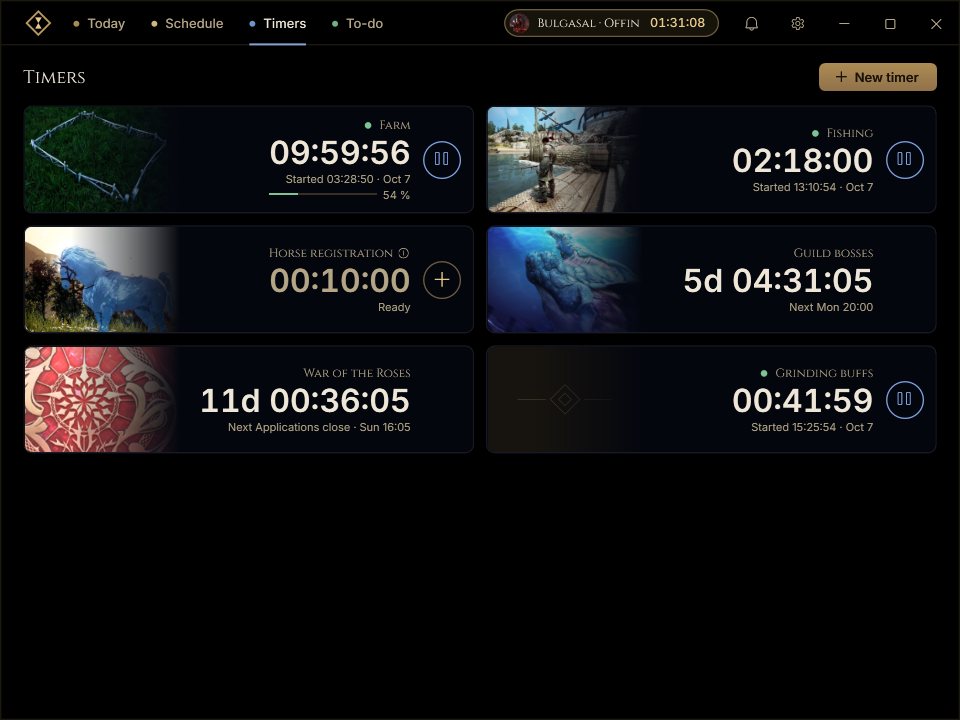
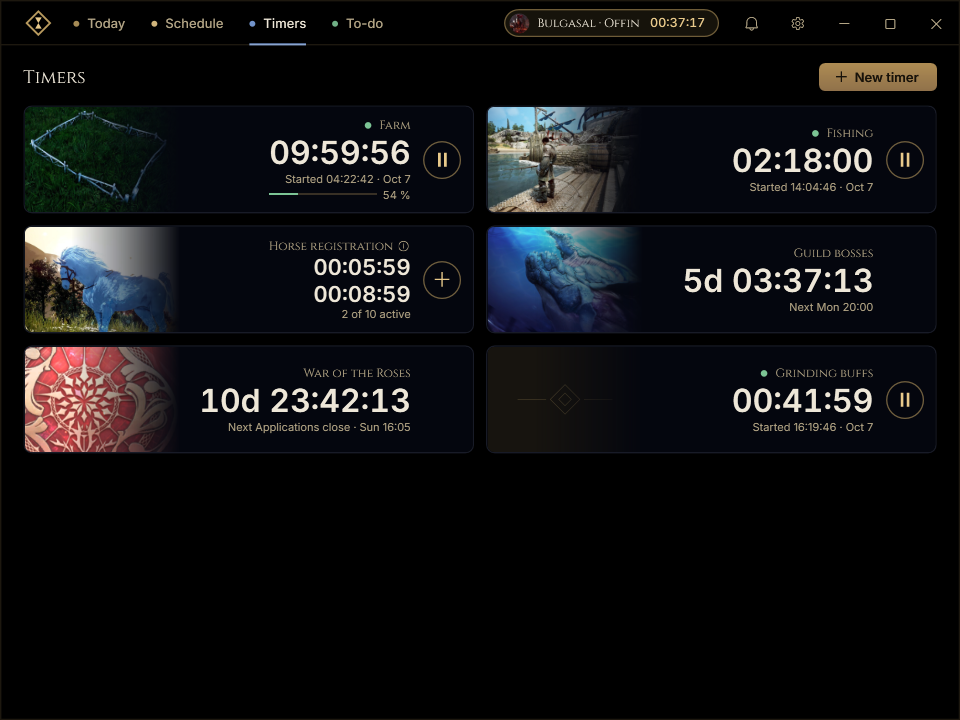
docs: README screenshots show the gold Pause button and a Horse registration with two clocks

diff --git a/tests/BdoTimers.App.Tests/UiShots.cs b/tests/BdoTimers.App.Tests/UiShots.cs
@@ -51,6 +51,13 @@ public class UiShots
                     ((RadioButton)window.FindName(tab)).IsChecked = true;
                     WpfTest.Drain();
                     UiCapture.Save(window, $"{name}.png");
+                    if (name == "timers")
+                    {
+                        // A third registration turns the Horse registration card's last line into an ellipsis.
+                        services.Timers.StartHorseRegistration(services.Clock.UtcNow.AddMinutes(-2));
+                        WpfTest.Drain();
+                        UiCapture.Save(window, "timers-horse-3.png");
+                    }
                     if (name == "schedule")
                     {
                         var month = PanelFocusScope.Descendants(window).OfType<RadioButton>().First(b => b.Name == "MonthToggle");
@@ -102,6 +109,9 @@ public class UiShots
         var buffs = new TimerDef { Name = "Grinding buffs", Kind = TimerKind.Countdown, Countdown = new CountdownSpec { Duration = TimeSpan.FromMinutes(45) } };
         timers.Upsert(buffs);
         timers.Start(buffs.Id, now.AddMinutes(-3));
+        // The second Horse registration gets a clock of its own under the first.
+        timers.StartHorseRegistration(now.AddMinutes(-4));
+        timers.StartHorseRegistration(now.AddMinutes(-1));
         WpfTest.Drain();
     }
 
